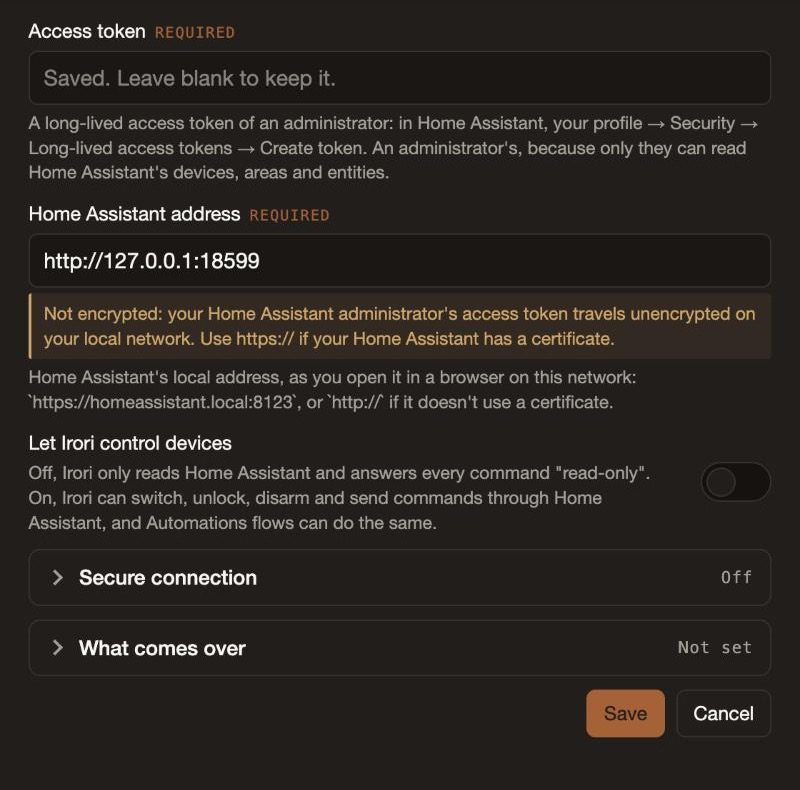
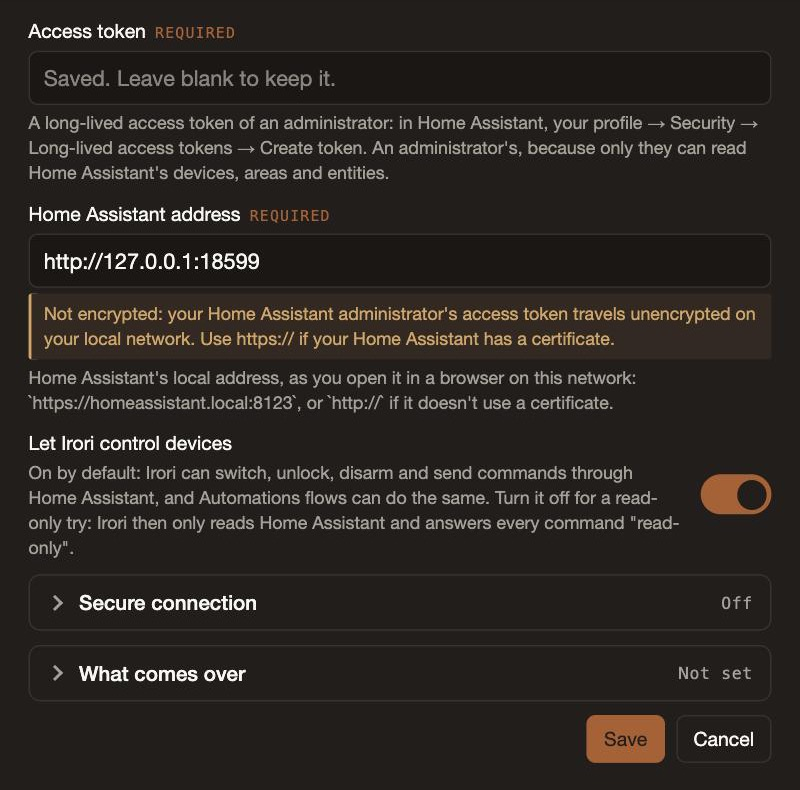
Home Assistant bridge: commands are on by default
The owner decides: Irori passes commands on to Home Assistant unless "Let Irori control
devices" is turned off for a read-only try, when every command is still answered
"read-only" and nothing is sent. The settings note, README and catalog say what being on
allows, Automations flows included, and how to turn it off. Version 0.4.1.

diff --git a/extensions/protocols/homeassistant/src/settings.rs b/extensions/protocols/homeassistant/src/settings.rs
@@ -14,7 +14,7 @@
 //! The token is tied to the address (`x-irori-secret-for`): the core clears it when the address
 //! changes, so it's never sent to a host it wasn't entered for.
 //!
-//! Commands are off until the owner turns them on, so a first try only reads.
+//! Commands are on unless the owner turns them off for a read-only try.
 
 use std::net::IpAddr;
 
@@ -39,10 +39,10 @@ pub struct Settings {
     /// they can read Home Assistant's devices, areas and entities.
     #[schemars(title = "Access token", extend("x-irori-secret-for" = "url"))]
     pub token: Secret,
-    /// Off, Irori only reads Home Assistant and answers every command "read-only". On, Irori can
-    /// switch, unlock, disarm and send commands through Home Assistant, and Automations flows
-    /// can do the same.
-    #[schemars(title = "Let Irori control devices", default = "off")]
+    /// On by default: Irori can switch, unlock, disarm and send commands through Home Assistant,
+    /// and Automations flows can do the same. Turn it off for a read-only try: Irori then only
+    /// reads Home Assistant and answers every command "read-only".
+    #[schemars(title = "Let Irori control devices", default = "on")]
     pub commands: bool,
     /// For a certificate no public authority issued, like Home Assistant's self-signed one: its
     /// SHA-256 fingerprint, or your certificate or CA certificate as PEM. Enter `none` to stop
@@ -99,6 +99,10 @@ fn nothing() -> Vec<String> {
 
 fn off() -> bool {
     false
+}
+
+fn on() -> bool {
+    true
 }
 
 fn no_text() -> String {
@@ -215,7 +219,7 @@ impl Settings {
 struct Raw {
     url: String,
     token: Secret,
-    #[serde(default)]
+    #[serde(default = "on")]
     commands: bool,
     #[serde(default)]
     certificate: String,
@@ -522,15 +526,20 @@ mod tests {
     }
 
     #[test]
-    fn commands_are_off_until_turned_on() {
-        let off = load(serde_json::json!({ "url": "http://127.0.0.1:8123", "token": "t" }))
+    fn commands_are_on_until_turned_off() {
+        let by_default = load(serde_json::json!({ "url": "http://127.0.0.1:8123", "token": "t" }))
             .expect("valid");
-        assert!(!off.commands);
-        let on = load(serde_json::json!({
-            "url": "http://127.0.0.1:8123", "token": "t", "commands": true,
+        assert!(by_default.commands);
+        let schema = serde_json::to_value(schemars::schema_for!(Settings)).expect("a schema");
+        assert_eq!(
+            schema["properties"]["commands"]["default"],
+            serde_json::json!(true)
+        );
+        let off = load(serde_json::json!({
+            "url": "http://127.0.0.1:8123", "token": "t", "commands": false,
         }))
         .expect("valid");
-        assert!(on.commands);
+        assert!(!off.commands);
     }
 
     #[test]

diff --git a/extensions/protocols/homeassistant/src/tests.rs b/extensions/protocols/homeassistant/src/tests.rs
@@ -79,8 +79,7 @@ fn home() -> World {
 }
 
 fn settings(fake: &FakeHa) -> Settings {
-    serde_json::from_value(json!({ "url": fake.url, "token": TOKEN, "commands": true }))
-        .expect("settings")
+    serde_json::from_value(json!({ "url": fake.url, "token": TOKEN })).expect("settings")
 }
 
 fn context(n: u8) -> ContextId {
@@ -751,10 +750,24 @@ async fn what_a_new_run_leaves_out_is_removed_and_what_is_still_loading_stays() 
 }
 
 #[tokio::test]
+async fn with_nothing_said_about_commands_a_command_goes_through() {
+    let fake = FakeHa::start(home()).await.expect("a fake");
+    let by_default: Settings =
+        serde_json::from_value(json!({ "url": fake.url, "token": TOKEN })).expect("settings");
+    let mut world = world_with(by_default).await;
+    world.running().await;
+    world.report("e-light", |r| on(r) == Some(false)).await;
+    assert_eq!(world.ask("e-light", Service::LightTurnOff, 1).await, Ok(()));
+    assert_eq!(fake.calls().len(), 1);
+    world.stop().await;
+}
+
+#[tokio::test]
 async fn with_commands_off_every_command_is_answered_read_only_and_nothing_is_sent() {
     let fake = FakeHa::start(home()).await.expect("a fake");
     let read_only: Settings =
-        serde_json::from_value(json!({ "url": fake.url, "token": TOKEN })).expect("settings");
+        serde_json::from_value(json!({ "url": fake.url, "token": TOKEN, "commands": false }))
+            .expect("settings");
     let mut world = world_with(read_only).await;
     world.running().await;
     world.report("e-light", |r| on(r) == Some(false)).await;
@@ -785,10 +798,8 @@ fn certificate() -> (
 }
 
 fn over_tls(fake: &FakeHa, certificate: &str) -> Settings {
-    serde_json::from_value(
-        json!({ "url": fake.url, "token": TOKEN, "commands": true, "certificate": certificate }),
-    )
-    .expect("settings")
+    serde_json::from_value(json!({ "url": fake.url, "token": TOKEN, "certificate": certificate }))
+        .expect("settings")
 }
 
 #[tokio::test]

diff --git a/extensions/protocols/homeassistant/src/lib.rs b/extensions/protocols/homeassistant/src/lib.rs
@@ -501,7 +501,7 @@ struct Done {
 struct Session<'a> {
     client: Client,
     transport: Transport,
-    /// Whether commands are passed on to Home Assistant: off until the owner turns them on.
+    /// Whether commands are passed on to Home Assistant: on unless the owner turned them off.
     commands: bool,
     bridge: &'a mut Bridge,
     entities: Vec<Bridged>,

diff --git a/extensions/protocols/homeassistant/README.md b/extensions/protocols/homeassistant/README.md
@@ -2,9 +2,9 @@
 
 Try Irori on the home your Home Assistant already runs. This extension brings Home Assistant's
 devices, entities, rooms and floors into Irori while Home Assistant keeps running them: it reads
-Home Assistant over its WebSocket API and follows its changes. It starts **read-only**: turn on
-"Let Irori control devices" to pass on the commands you give in Irori. Nothing about your Home
-Assistant's setup changes.
+Home Assistant over its WebSocket API and follows its changes. It passes on the commands you give in
+Irori **by default**; turn off "Let Irori control devices" for a read-only try. Nothing about your
+Home Assistant's setup changes.
 
 > **Use an `https://` address if you can.** Over `http://`, your Home Assistant administrator's
 > access token travels unencrypted on your local network, where another device on it could read
@@ -110,10 +110,10 @@ What this extension can send is a closed list, checked again before anything lea
 and `call_service`. It never touches Home Assistant's registries, areas or automations, and it
 can't unpair anything. A test fails if anything else can be sent.
 
-`call_service` does act on your home, so it is **off until you turn it on**. While "Let Irori
-control devices" is off, every command is answered "read-only" and no service call is sent. On,
-a command someone gives in Irori goes to that entity, with a service of its own kind: Irori can
-switch, unlock, disarm and send commands, and Automations flows can do the same.
+`call_service` does act on your home, and it is **on by default**: a command someone gives in
+Irori goes to that entity, with a service of its own kind. So Irori can switch, unlock, disarm and
+send commands, and Automations flows can do the same. For a read-only try, turn off "Let Irori
+control devices": every command is then answered "read-only" and no service call is sent.
 
 ## Settings
 
@@ -125,8 +125,8 @@ url = "https://homeassistant.local:8123"
 # In Home Assistant, as an administrator: your profile → Security → Long-lived access tokens →
 # Create token. A secret: kept in secrets.toml and never shown again.
 token = "…"
-# Pass Irori's commands on to Home Assistant. Off: read-only.
-commands = false
+# Pass Irori's commands on to Home Assistant: on by default. Off: a read-only try.
+commands = true
 # Optional, for a certificate no public authority issued: its SHA-256 fingerprint, or your
 # certificate or CA certificate as PEM. `none` goes back to public authorities only.
 certificate = ""
